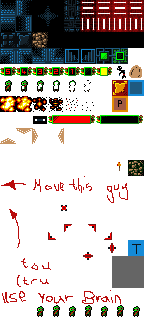
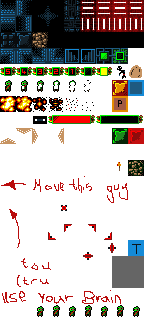
Add placeholder good and bad platform images

Changed region(s): [[0.7778, 0.375, 1.0, 0.4688]]

diff --git a/src/game_object/moving_platform.py b/src/game_object/moving_platform.py
@@ -30,6 +30,9 @@ class MovingPlatform(entity.Entity):
         self.target = self.path.points[1]
         self.timer = 50
 
+        self.safe_platform_image = graphics.subsurf(graphics.grid(7, 8))
+        self.unsafe_platform_image = graphics.subsurf(graphics.grid(8, 8))
+
     def pin_player(self, player, x, y):
         """
         Pins the player to x and y.
@@ -80,9 +83,9 @@ class MovingPlatform(entity.Entity):
             Green is safe to go on. Red is not, if it's red and we 
             try and go on, we should die."""
             if self.rect.x % 16 == 0 and self.rect.y % 16 == 0:
-                self.image.fill((0, 255,0))
+                self.image = self.safe_platform_image
 
                 # Time to wait before moving again
                 self.timer = 50
             else:
-                self.image.fill((140,0,0))
+                self.image = self.unsafe_platform_image
